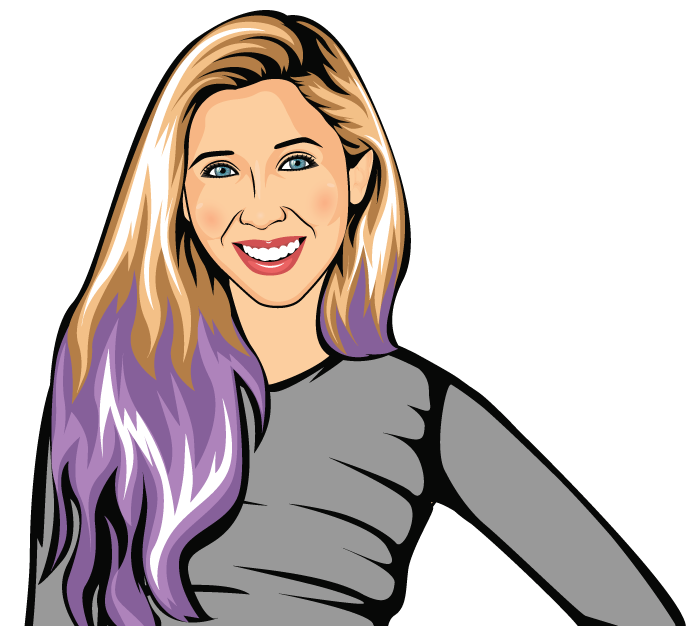
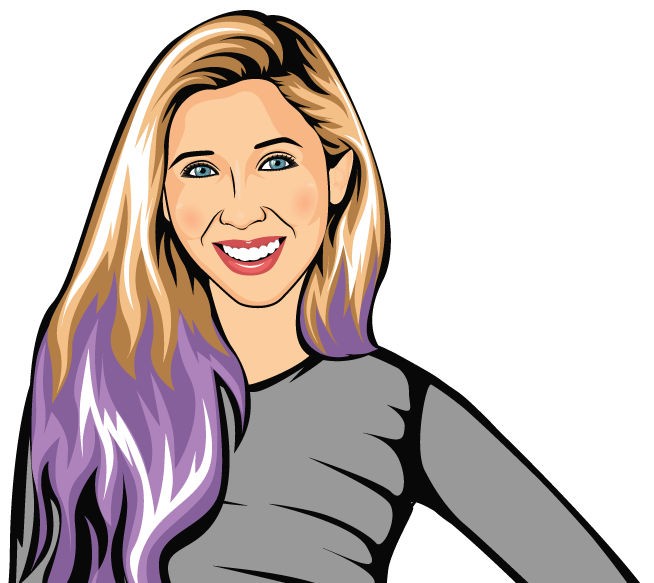
saving

diff --git a/dev/styles/partials/_landing.scss b/dev/styles/partials/_landing.scss
@@ -11,10 +11,12 @@
 
 #landing .wrapper {
 	position: relative;
+	max-width: 1000px;
 }
 
 .landing__greeting {
-	width: 50%;
+	width: 45%;
+	margin-right: 1em;
 	transition: all 0.5s ease;
 	margin-left: 2%;
 	@include respond-to(large) {
@@ -95,10 +97,10 @@ p.landing__welcomeBlurb {
 
 .landing__img {
 	position: absolute;
-	right: 0;
+	right: -30px;
 	bottom: -60px;
 	z-index: 10;
-	width: 47%;
+	width: calc(55% - 1em);
 	max-width: 530px;
 	min-width: 410px;
 	@include respond-to(large) {

diff --git a/dev/styles/partials/_global.scss b/dev/styles/partials/_global.scss
@@ -4,7 +4,7 @@ html {
 }
 
 .wrapper {
-	max-width: 1170px;
+	max-width: 1100px;
 	width: 100%;
 	margin: 0 auto;
 }
